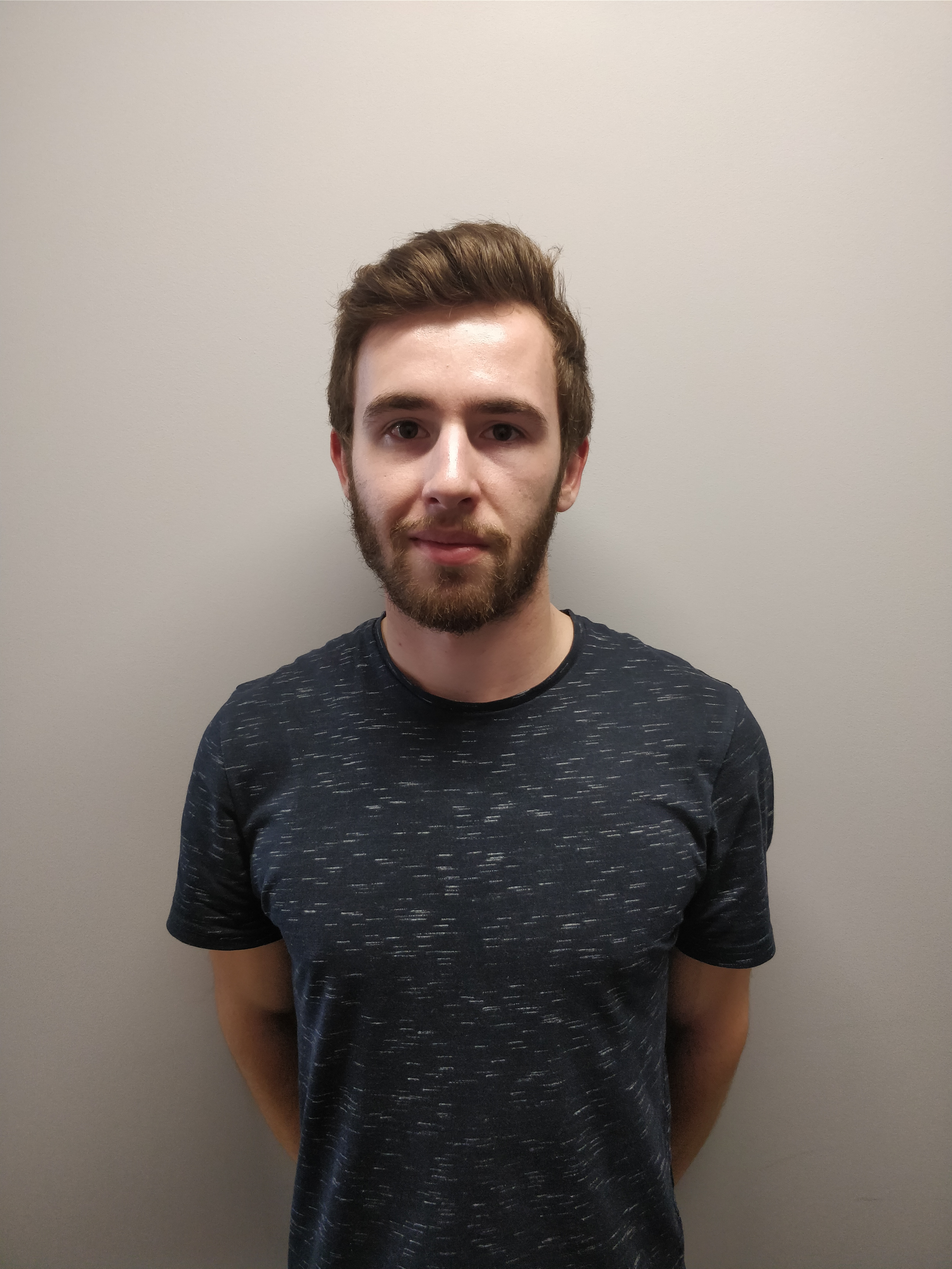
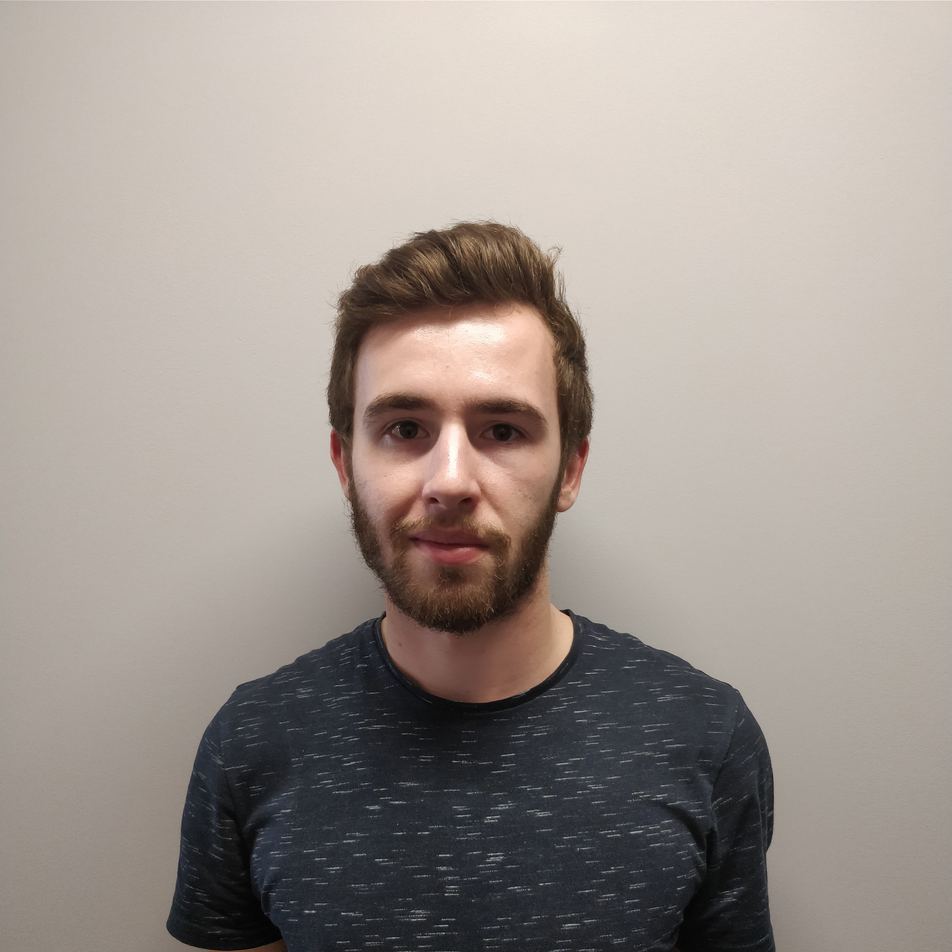
ajustement des couleurs

diff --git a/Web/css/style.css b/Web/css/style.css
@@ -14,6 +14,7 @@
   width : 50%;
   margin-left : 25%;
   margin-top : 10px;
+
 }
 
 #page-team img
@@ -22,6 +23,7 @@
   margin-left : 25%;
   margin-top : 10px;
   border-radius : 50%;
+  box-shadow: 0 1px 20px 0 rgba(0, 0, 0, 0.2), 0 0px 100px 0 rgba(0, 0, 0, 0.12);
 }
 
 #page-team .card-title, #page-team h1, #page-team .card-footer
@@ -47,25 +49,27 @@
 #page-team p
 {
   font-size : 0.9rem;
-  /*color : white;*/
 }
 
 * {
     margin: 0;
     padding: 0;
     font-size: 1.1rem;
-    /*border-radius: 5px;*/
+}
+
+.carousel-inner{
+    border-radius: 8px;
+    margin-bottom: 30px;
+    box-shadow: 0 4px 8px 0 rgba(0, 0, 0, 0.23), 0 6px 20px 0 rgba(0, 0, 0, 0.3);
 }
 
 body{
-    /*background-color: #6C757D !important;*/
-    /*background-color: #99b4cd !important;*/
     background-color : #e8e8e8 !important;
 }
 
 nav
 {
-  background-color : #2A5294;
+    background-color: #3781FB;
 }
 
 nav a:hover
@@ -111,6 +115,9 @@ li{
 
 .img-fluid{
     margin-bottom: 6%;
+    box-shadow: 0 4px 8px 0 rgba(0, 0, 0, 0.23), 0 6px 20px 0 rgba(0, 0, 0, 0.3);
+    padding: 0px !important;
+    border: none !important;
 }
 
 .gauche{
